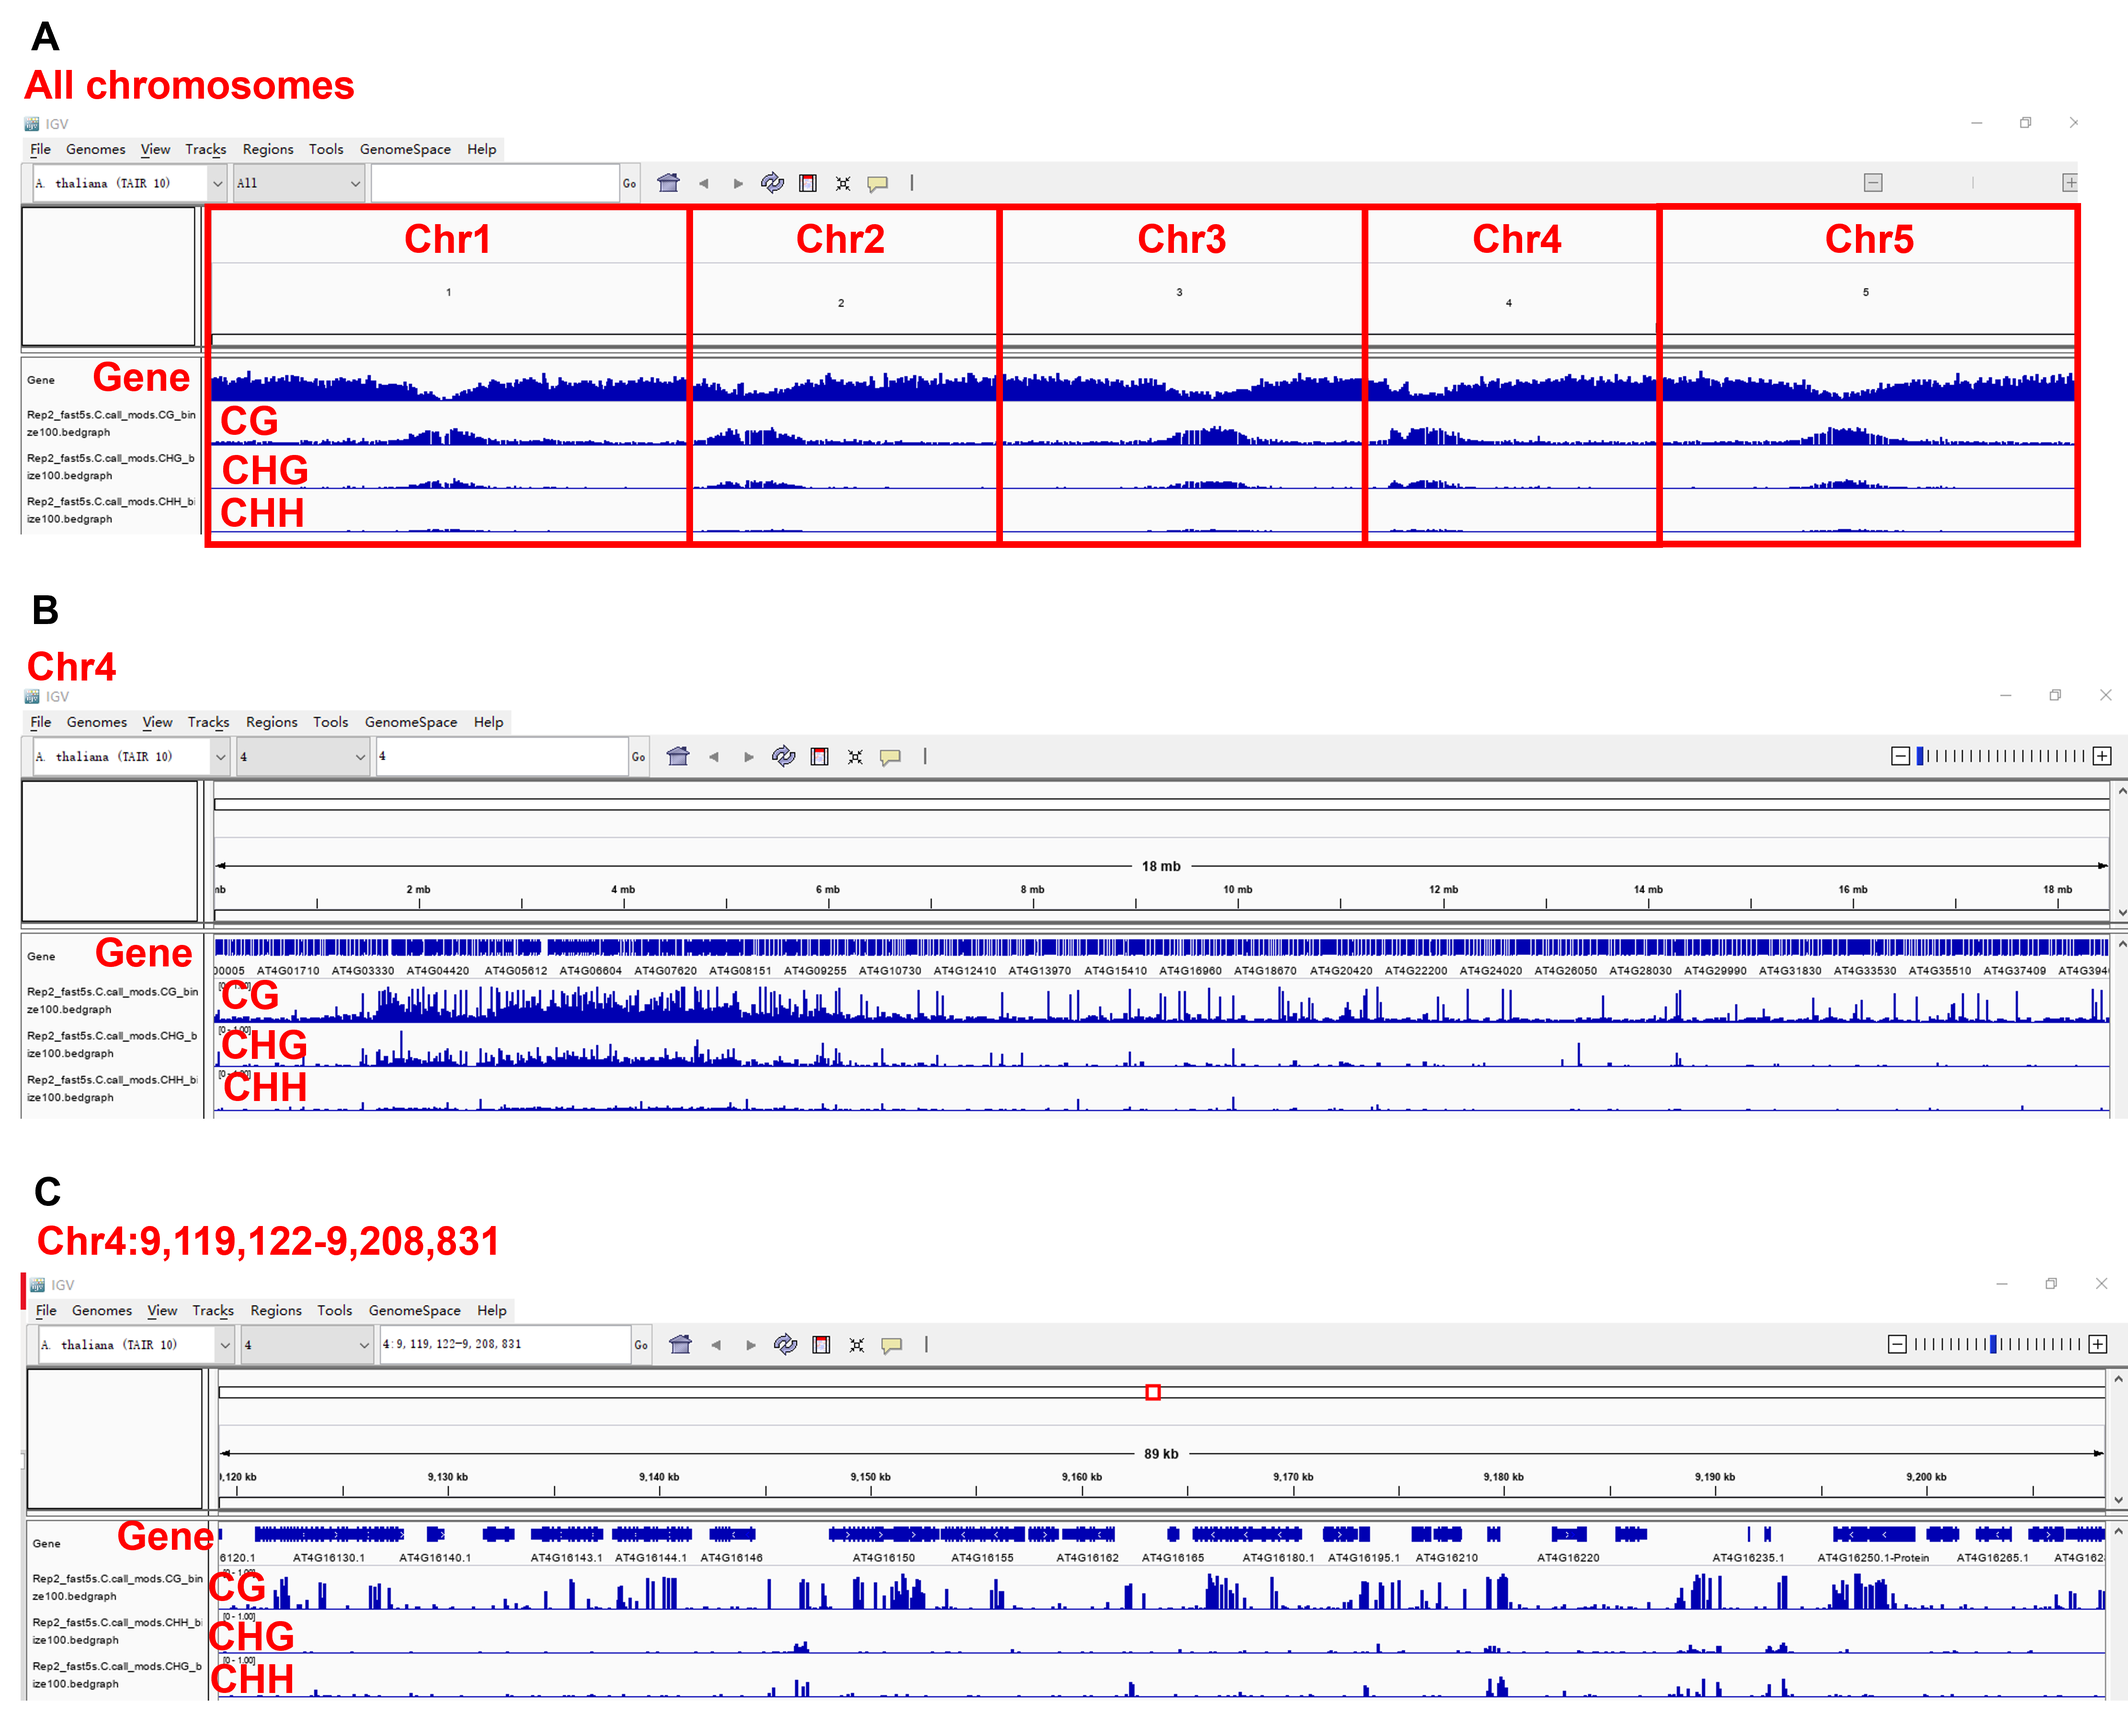
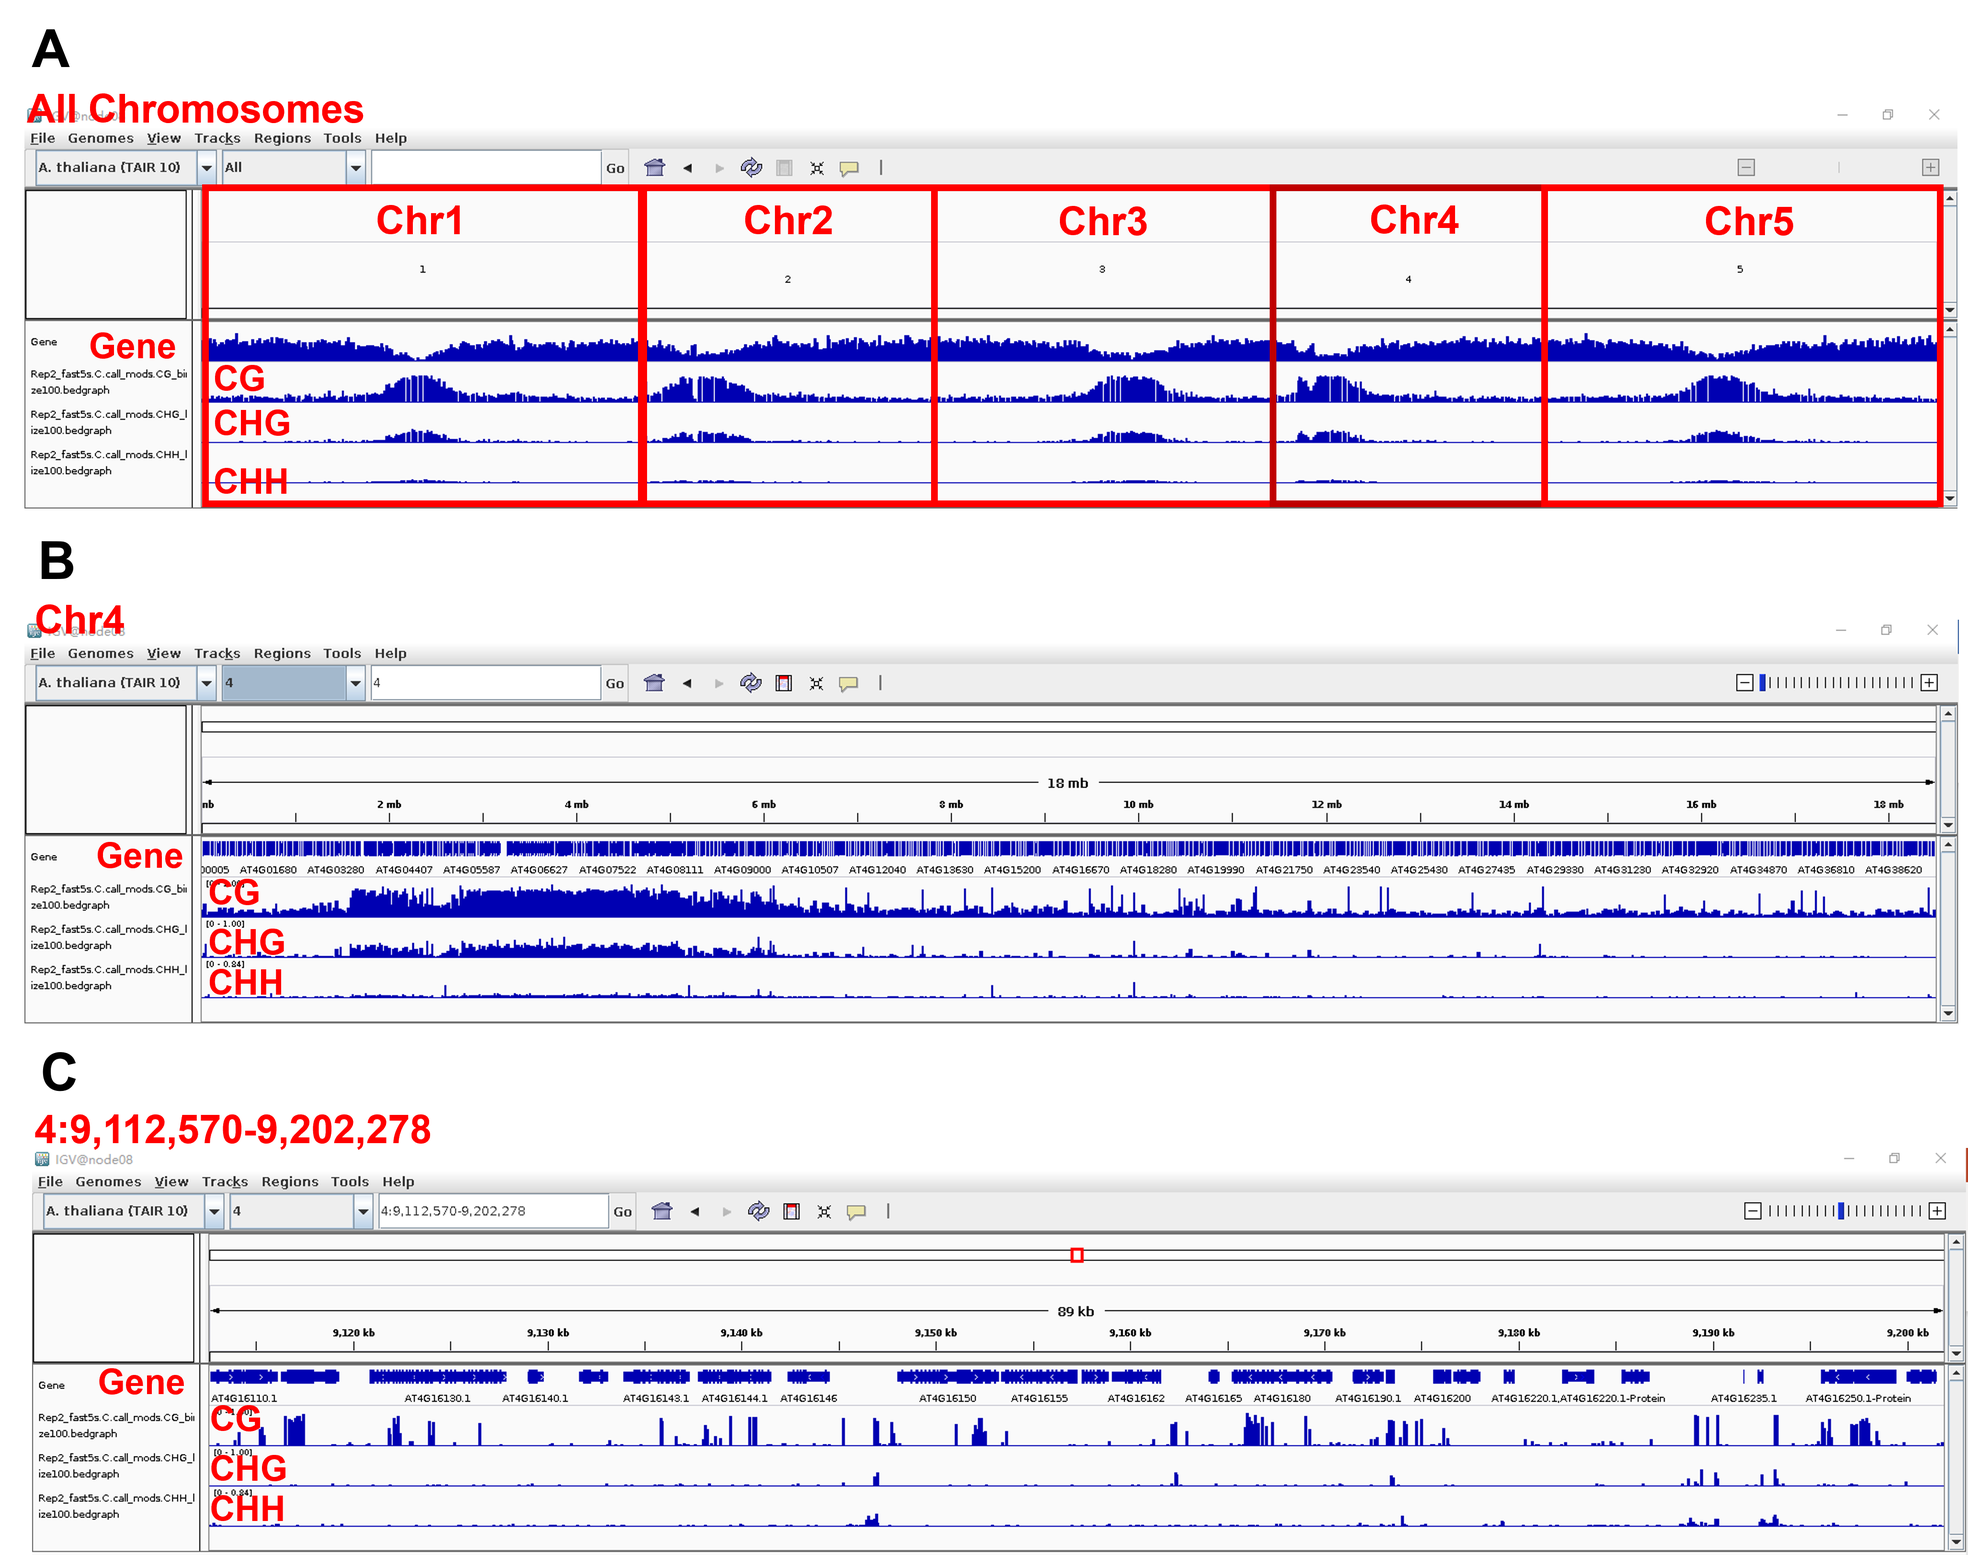
final_v2.0

diff --git a/lib/python_scripts/chrom_met_visulization.py b/lib/python_scripts/chrom_met_visulization.py
@@ -19,13 +19,13 @@ from hurry.filesize import size,si
 def plot_met_chr(cg_bedg,chg_bedg,chh_bedg,region_bed,chrom,outdir):
     CG_table = pd.read_table(cg_bedg,names=['chrom','binstart','binend','met_level_final'],
                              header=None,
-                             converters={'chrom':str,'binstart':int,'binend':int,'met_level_final':float})
+                             converters={'chrom':str,'binstart':int,'binend':int})
     CHG_table = pd.read_table(chg_bedg,names=['chrom','binstart','binend','met_level_final'],
                              header=None,
-                             converters={'chrom':str,'binstart':int,'binend':int,'met_level_final':float})
+                             converters={'chrom':str,'binstart':int,'binend':int})
     CHH_table = pd.read_table(chh_bedg,names=['chrom','binstart','binend','met_level_final'],
                              header=None,
-                             converters={'chrom':str,'binstart':int,'binend':int,'met_level_final':float})
+                             converters={'chrom':str,'binstart':int,'binend':int})
 
     region_df = pd.read_table(region_bed,header=None,names=['chrom','chr_start','chr_end'],
                                 converters={'chrom':str,'chr_start':int,'chr_end':int},
@@ -50,13 +50,19 @@ def plot_met_chr(cg_bedg,chg_bedg,chh_bedg,region_bed,chrom,outdir):
 
     n = 0
     for i in [CG_table,CHG_table,CHH_table]:
-        ax_chr = ax
         df = i.query('chrom == @chrom')
-        ax_chr.plot(df['binstart'], df['met_level_final'], color=color_list[n],lw=4)
-        ax_chr.set_xticks([0, chrom_size])
-        ax_chr.set_xticklabels([0, size(chrom_size, system=si)])
-        ax_chr.title.set_text(f'Chr{chrom}')
-        sns.despine(ax=ax_chr)
+        if df['met_level_final'].isnull().sum() > 0:
+            sns.lineplot(data=df,x='binstart',y='met_level_final',
+            hue=df["met_level_final"].isna().cumsum(),
+            palette=[color_list[n]]*sum(df["met_level_final"].isna()),
+            lw=4,ax=ax)
+        else:
+            sns.lineplot(data=df,x='binstart',y='met_level_final',color=color_list[n],lw=4,ax=ax)
+
+        ax.set_xticks([0, chrom_size])
+        ax.set_xticklabels([0, size(chrom_size, system=si)])
+        ax.title.set_text(f'Chr{chrom}')
+        sns.despine(ax=ax)
         n += 1 
 
     from matplotlib.lines import Line2D

diff --git a/lib/python_scripts/met_level_bin.py b/lib/python_scripts/met_level_bin.py
@@ -28,7 +28,7 @@ def level_size(region_bed,met_bed,prefix,binsize,outdir):
     for i in region_df.itertuples():
         region_chr,region_start,region_end = i
         query_text = '(chrom == @region_chr) and (start > @region_start) and (end <= @region_end)'
-        met_df_tmp = met_df.query(query_text)
+        met_df_tmp = met_df_valid.query(query_text)
         df_cut = pd.cut(met_df_tmp['start'],bins=np.arange(region_start,region_end+binsize,binsize),right=False,precision=0)
         met_df_tmp.loc[:,'interval'] = df_cut
         #keep all bins in the region to fill gap for no methylated bins
@@ -43,15 +43,15 @@ def level_size(region_bed,met_bed,prefix,binsize,outdir):
     met_df_interval_group = met_df_interval.groupby(
         by=['chrom','interval']).apply(
         lambda df: df.assign(
-            met_level = ((df['coverage']*df['met_percentage']/100).sum())/df['coverage'].sum(),size = len(df)))
+            met_level = ((df['coverage']*df['met_percentage']/100).sum())/(df['coverage'].sum()) if (df['coverage'].sum() != 0) else 0,size = len(df)))
 
 
 
-    #Keep the valid bin methylation level, while write the unvalid bin methylation level as zero
+    #Keep the valid bin methylation level, while write the unvalid bin methylation level as NA
     met_df_bin_filter =  met_df_interval_group.assign(
         met_level_final = lambda df: np.select(
             [df['size'] < 4, df['size']>= 4],
-            [0,df['met_level']]
+            [np.nan,df['met_level']]
         )
     )
 
@@ -61,6 +61,8 @@ def level_size(region_bed,met_bed,prefix,binsize,outdir):
     #spit the bin interval into two columna
     idx = pd.IntervalIndex(met_df_bedgraph['interval'])
     met_df_bedgraph_split_bin = met_df_bedgraph.assign(binstart =idx.left, binend = idx.right)
+    met_df_bedgraph_split_bin['binstart'] = met_df_bedgraph_split_bin['binstart'].astype(int)
+    met_df_bedgraph_split_bin['binend'] = met_df_bedgraph_split_bin['binend'].astype(int)
     met_df_bedgraph_split_bin.to_csv(f'{outdir}/{prefix}_binsize{binsize}.bedgraph',
                                      columns=['chrom','binstart','binend','met_level_final'],
                                      sep="\t",header=None,index=False,
